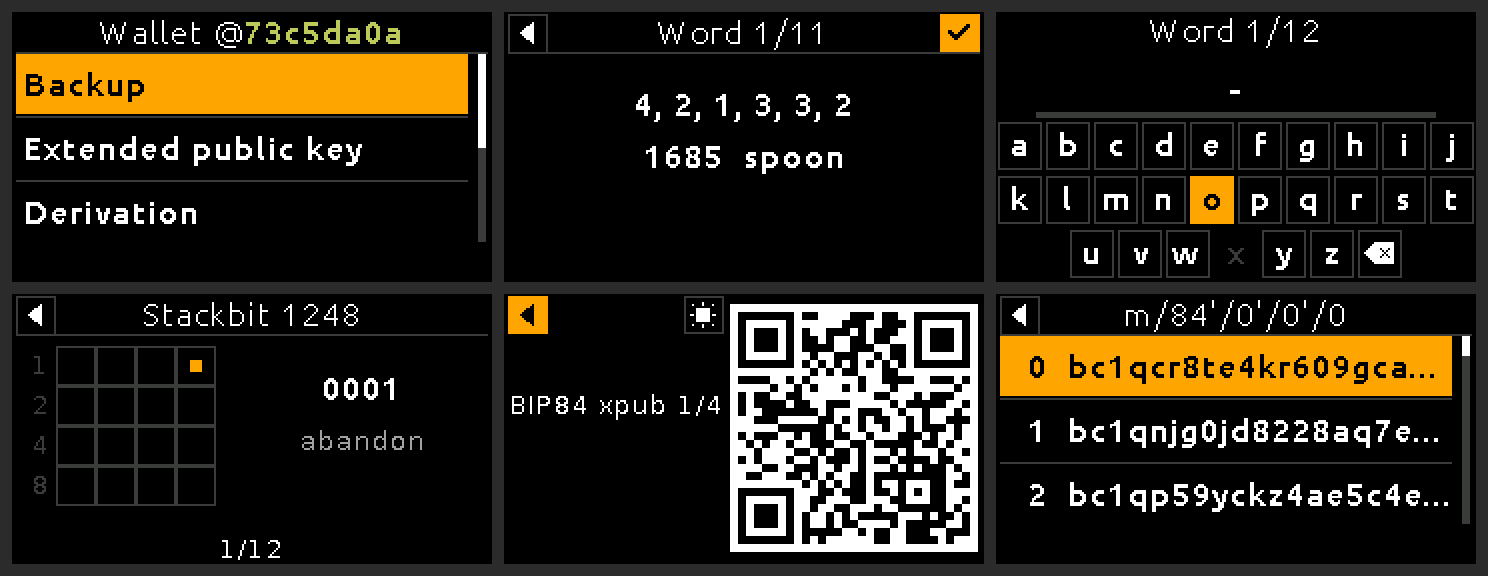
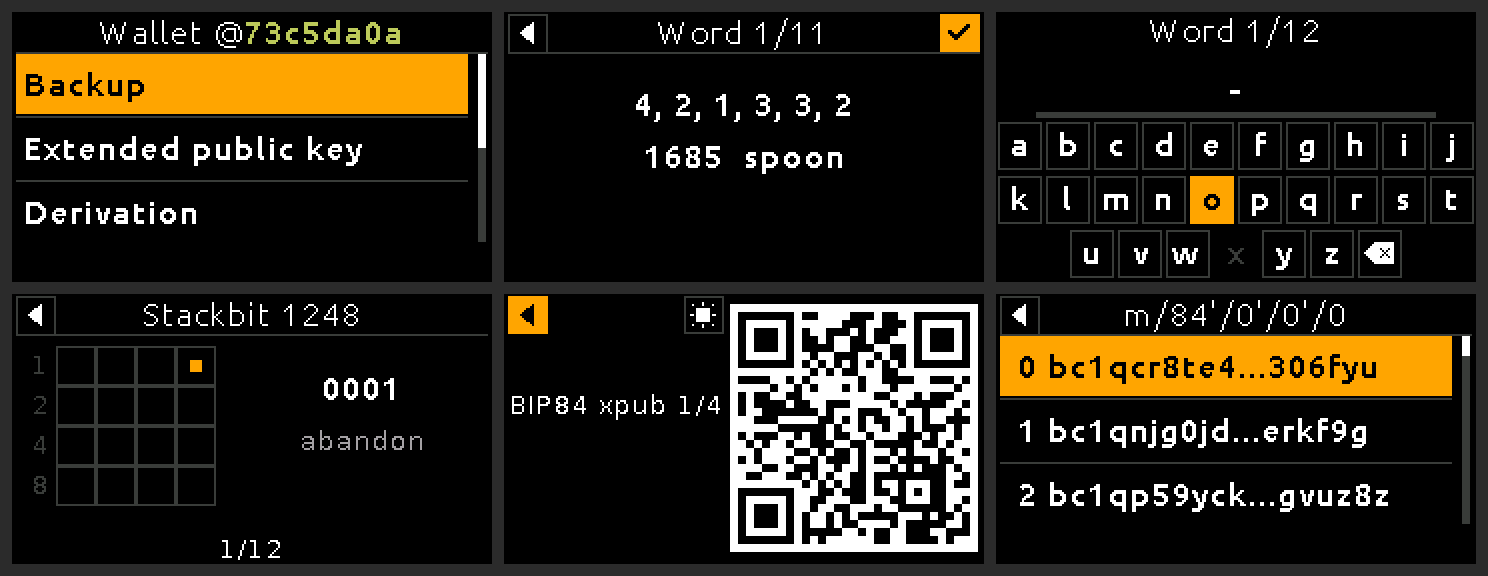
Keep both ends of each listed address
A row too narrow for its address cut the end off, leaving only the start,
the half an address made to look alike copies first. A row now keeps the
type prefix (bc1q, bc1p, or a base58 address's 1 or 3), which says nothing
about which address it is, then six characters of the start and six of
the end: 0 bc1qcr8te4...306fyu. The same count on every row, so the reader
learns one habit; the index takes two digits to leave the room.

The font is proportional, so seven and seven fit fewer than a quarter of
two-digit bech32 rows. Six and six fit all but about one in 3,400, which
keeps five and five instead of running off the row.

Changed region(s): [[0.6801, 0.7188, 0.9583, 0.7812], [0.6801, 0.5938, 0.9583, 0.6875], [0.6801, 0.8438, 0.9583, 0.9062]]

diff --git a/main/app_wallet.c b/main/app_wallet.c
@@ -322,6 +322,43 @@ static char addresses[ADDRESS_SHOWN_ROWS][SEEDTOOL_MAX_ADDRESS_LEN];
 static char address_labels[ADDRESS_SHOWN_ROWS][ADDRESS_LABEL_LEN];
 static const char* address_items[ADDRESS_SHOWN_ROWS + 2]; /* + Go to index + Back */
 
+/* What every mainnet address of its type starts with, so it says nothing about
+ * which address it is: "bc1q" or "bc1p" (the HRP, its separator and the
+ * witness version), or a base58 address's leading "1" or "3". */
+static size_t address_prefix_len(const char* address)
+{
+    return strncmp(address, "bc1", 3) == 0 ? 4 : 1;
+}
+
+/* An address is checked by both ends, so a row keeps its type prefix and then
+ * ADDRESS_SIDE characters of its start and as many of its end:
+ * "48 bc1qnjg0jd...rerkf9g". The same count on every row, so the reader
+ * learns one habit; cutting only the end would show the start alone, the half
+ * an address made to look alike copies first. The font is proportional: six
+ * and six fit all but about one bech32 row in 3,400 (wide letters such as m
+ * and w), which keeps five and five rather than running off the row. */
+#define ADDRESS_SIDE 6
+/* The index takes two digits, so the address keeps the width. */
+_Static_assert(ADDRESS_SHOWN_ROWS <= 100, "a listed index runs past two digits");
+
+static void address_row(const uint32_t index, const char* address, char label[ADDRESS_LABEL_LEN])
+{
+    const size_t len = strnlen(address, SEEDTOOL_MAX_ADDRESS_LEN - 1);
+    const size_t prefix = address_prefix_len(address);
+    /* %.*s: GCC's format-truncation analysis loses the bound on the address. */
+    (void)snprintf(label, ADDRESS_LABEL_LEN, "%2u %.*s", (unsigned)index, (int)len, address);
+    if (len <= prefix + 2 * ADDRESS_SIDE) {
+        return;
+    }
+    for (size_t each = ADDRESS_SIDE; each > 0; --each) {
+        (void)snprintf(label, ADDRESS_LABEL_LEN, "%2u %.*s...%.*s", (unsigned)index, (int)(prefix + each), address,
+            (int)each, address + len - each);
+        if (seedtool_render_fit_row(label) == strlen(label)) {
+            return;
+        }
+    }
+}
+
 /* Fills the list for one type, account and branch. Returns false, having told
  * the reader, on a derivation error. */
 static bool derive_addresses(
@@ -338,10 +375,7 @@ static bool derive_addresses(
         return false;
     }
     for (uint32_t i = 0; i < ADDRESS_SHOWN_ROWS; ++i) {
-        /* %.*s: GCC's format-truncation analysis loses the bound on
-         * addresses[i]. */
-        (void)snprintf(address_labels[i], ADDRESS_LABEL_LEN, "%3u  %.*s", (unsigned)i,
-            (int)(SEEDTOOL_MAX_ADDRESS_LEN - 1), addresses[i]);
+        address_row(i, addresses[i], address_labels[i]);
         address_items[i] = address_labels[i];
     }
     address_items[ADDRESS_SHOWN_ROWS] = "Go to index";

diff --git a/main/seedtool_render.h b/main/seedtool_render.h
@@ -44,11 +44,11 @@ void seedtool_render_splash(void);
  * character count. */
 size_t seedtool_render_fit(const char* text, size_t limit);
 
-/* How many leading characters of a list item fit its row. Values meant to be
- * transcribed are never listed; they are paged with seedtool_render_fit. Only
- * the tests call this: it is the row's fit with no ellipsis, which they hold
- * the drawn row against, and the drawing itself measures with the same
- * fit_in. */
+/* How many leading characters of a list item fit its row, with no ellipsis:
+ * the drawing measures with the same fit_in. Values meant to be transcribed
+ * are never listed; they are paged with seedtool_render_fit. The address list
+ * uses this to cut its rows in the middle, keeping both ends, and the tests
+ * hold the drawn row against it. */
 size_t seedtool_render_fit_row(const char* text);
 
 /* Characters per group, as wallets group addresses. */

diff --git a/docs/using.md b/docs/using.md
@@ -201,7 +201,13 @@ whatever is set:
   follows is `m/84'/0'/0'/0/i`, `m/86'/0'/0'/0/i`, `m/49'/0'/0'/0/i` or
   `m/44'/0'/0'/0/i` for receive,
   `.../1/i` for change, with each address titled by its own full path so the
-  branch is never inferred from which menu it was reached through. The list
+  branch is never inferred from which menu it was reached through. Each row
+  keeps both ends of its address, `0 bc1qcr8te4...306fyu`: after the `bc1q`
+  every address of the type shares, six characters of the start and six of the
+  end on every row, since an address is checked by its start and end and one
+  made to look alike copies both. The font is proportional, so about one bech32
+  row in 3,400, crowded with wide letters, keeps five and five instead. The
+  address's own screen shows it whole. The list
   shows the first fifty; a "Go to index" entry at the end of it takes any
   index in range on a four-digit keypad, since scrolling five rows at a time
   to reach index 87 is not browsing, and a wallet used for years passes a
